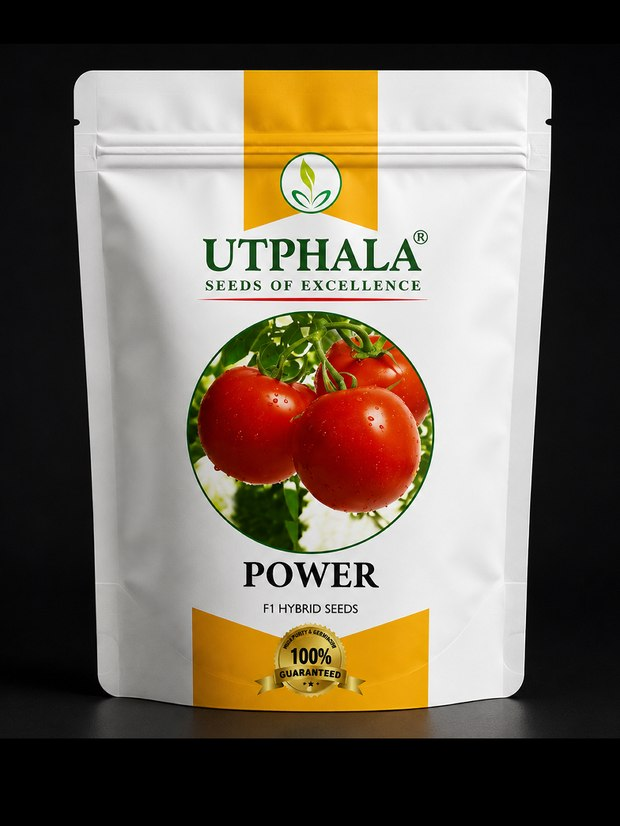
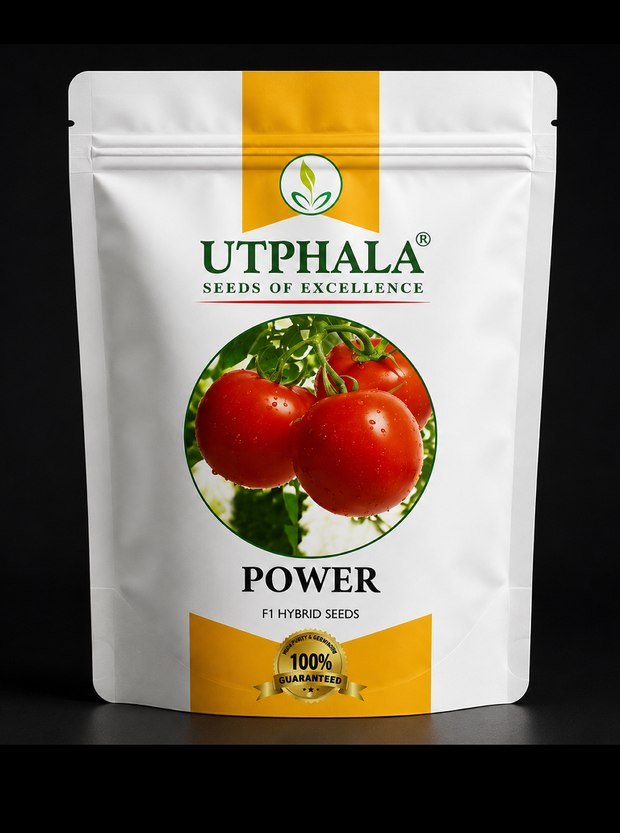
Equalise the pouch widths across the packaging row
The client spotted that TRUPTI and 1212 looked wider, and they were:
after scaling every pouch to the same height, widths came out 637 to
709px — TRUPTI +4.3% and 1212 +3.3% against the mean, KAVERI -6.3%, so
11.3% between widest and narrowest. My earlier "about 5%" understated it
by describing deviation from the mean rather than the visible spread.

Width and height are now normalised independently, so all four pouches
land on the same footprint. Since these are separate renders of one
physical pouch, correcting them is truer to the product than preserving
each render's own aspect. The correction is small: +6.7% horizontal on
KAVERI, -4.1% on TRUPTI, under 1.5% on the other two.

Verified on the finished tiles by re-detecting each pouch: 487-488px
wide, 643-644px tall, baselines within 1px.

diff --git a/utphala.com/index.html b/utphala.com/index.html
@@ -9,7 +9,7 @@
   <link rel="preconnect" href="https://fonts.googleapis.com">
   <link rel="preconnect" href="https://fonts.gstatic.com" crossorigin>
   <link href="https://fonts.googleapis.com/css2?family=Poppins:wght@400;500;600;700&family=Nunito:wght@400;600;700&display=swap" rel="stylesheet">
-  <link rel="stylesheet" href="site.css?v=20260808g">
+  <link rel="stylesheet" href="site.css?v=20260808h">
 </head>
 <body>
 
@@ -172,16 +172,16 @@
       <h2 class="section-title">40+ Hybrids Across 11 Crop Categories</h2>
       <div class="pouch-row">
         <a class="pouch reveal" style="--i:0" href="products.html?product=chilli-1212">
-          <img src="images/pouches/pouch-1212.jpg?v=20260808g" alt="Utphala 1212 F1 chilli seed pouch" loading="lazy">
+          <img src="images/pouches/pouch-1212.jpg?v=20260808h" alt="Utphala 1212 F1 chilli seed pouch" loading="lazy">
         </a>
         <a class="pouch reveal" style="--i:1" href="products.html?product=tomato-saaish">
-          <img src="images/pouches/pouch-power.jpg?v=20260808g" alt="Utphala POWER F1 tomato seed pouch" loading="lazy">
+          <img src="images/pouches/pouch-power.jpg?v=20260808h" alt="Utphala POWER F1 tomato seed pouch" loading="lazy">
         </a>
         <a class="pouch reveal" style="--i:2" href="products.html?product=watermelon-trupti">
-          <img src="images/pouches/pouch-trupti.jpg?v=20260808g" alt="Utphala TRUPTI F1 watermelon seed pouch" loading="lazy">
+          <img src="images/pouches/pouch-trupti.jpg?v=20260808h" alt="Utphala TRUPTI F1 watermelon seed pouch" loading="lazy">
         </a>
         <a class="pouch reveal" style="--i:3" href="products.html?product=cucumber-kaveri">
-          <img src="images/pouches/pouch-kaveri.jpg?v=20260808g" alt="Utphala KAVERI F1 cucumber seed pouch" loading="lazy">
+          <img src="images/pouches/pouch-kaveri.jpg?v=20260808h" alt="Utphala KAVERI F1 cucumber seed pouch" loading="lazy">
         </a>
       </div>
       <a href="products.html" class="btn btn-yellow">Explore Our Products</a>
@@ -281,6 +281,6 @@
     <svg viewBox="0 0 32 32"><path d="M16 .5C7.4.5.5 7.4.5 16c0 2.7.7 5.4 2 7.7L.5 31.5l8-2.1c2.3 1.2 4.8 1.9 7.5 1.9 8.6 0 15.5-6.9 15.5-15.5S24.6.5 16 .5zm0 28.2c-2.4 0-4.7-.6-6.7-1.8l-.5-.3-4.7 1.2 1.3-4.6-.3-.5c-1.3-2-2-4.4-2-6.8C3.1 8.9 8.9 3.1 16 3.1S28.9 8.9 28.9 16 23.1 28.7 16 28.7zm7.1-9.6c-.4-.2-2.3-1.1-2.6-1.3-.4-.1-.6-.2-.9.2-.3.4-1 1.3-1.3 1.5-.2.3-.5.3-.9.1-.4-.2-1.6-.6-3.1-1.9-1.1-1-1.9-2.3-2.1-2.6-.2-.4 0-.6.2-.8.2-.2.4-.5.6-.7.2-.2.3-.4.4-.7.1-.3.1-.5 0-.7-.1-.2-.9-2.1-1.2-2.9-.3-.8-.6-.7-.9-.7h-.8c-.3 0-.7.1-1.1.5-.4.4-1.4 1.4-1.4 3.4s1.5 3.9 1.7 4.2c.2.3 2.9 4.5 7.1 6.3 1 .4 1.8.7 2.4.9 1 .3 1.9.3 2.6.2.8-.1 2.3-1 2.7-1.9.3-.9.3-1.7.2-1.9-.1-.2-.4-.3-.8-.5z"/></svg>
   </a>
 
-  <script src="site.js?v=20260808g"></script>
+  <script src="site.js?v=20260808h"></script>
 </body>
 </html>

diff --git a/utphala.com/gallery.html b/utphala.com/gallery.html
@@ -9,7 +9,7 @@
   <link rel="preconnect" href="https://fonts.googleapis.com">
   <link rel="preconnect" href="https://fonts.gstatic.com" crossorigin>
   <link href="https://fonts.googleapis.com/css2?family=Poppins:wght@400;500;600;700&family=Nunito:wght@400;600;700&display=swap" rel="stylesheet">
-  <link rel="stylesheet" href="site.css?v=20260808f">
+  <link rel="stylesheet" href="site.css?v=20260808h">
 </head>
 <body>
 
@@ -142,7 +142,7 @@
     <svg viewBox="0 0 32 32"><path d="M16 .5C7.4.5.5 7.4.5 16c0 2.7.7 5.4 2 7.7L.5 31.5l8-2.1c2.3 1.2 4.8 1.9 7.5 1.9 8.6 0 15.5-6.9 15.5-15.5S24.6.5 16 .5zm0 28.2c-2.4 0-4.7-.6-6.7-1.8l-.5-.3-4.7 1.2 1.3-4.6-.3-.5c-1.3-2-2-4.4-2-6.8C3.1 8.9 8.9 3.1 16 3.1S28.9 8.9 28.9 16 23.1 28.7 16 28.7zm7.1-9.6c-.4-.2-2.3-1.1-2.6-1.3-.4-.1-.6-.2-.9.2-.3.4-1 1.3-1.3 1.5-.2.3-.5.3-.9.1-.4-.2-1.6-.6-3.1-1.9-1.1-1-1.9-2.3-2.1-2.6-.2-.4 0-.6.2-.8.2-.2.4-.5.6-.7.2-.2.3-.4.4-.7.1-.3.1-.5 0-.7-.1-.2-.9-2.1-1.2-2.9-.3-.8-.6-.7-.9-.7h-.8c-.3 0-.7.1-1.1.5-.4.4-1.4 1.4-1.4 3.4s1.5 3.9 1.7 4.2c.2.3 2.9 4.5 7.1 6.3 1 .4 1.8.7 2.4.9 1 .3 1.9.3 2.6.2.8-.1 2.3-1 2.7-1.9.3-.9.3-1.7.2-1.9-.1-.2-.4-.3-.8-.5z"/></svg>
   </a>
 
-  <script src="product-data.js?v=20260808f"></script>
-  <script src="site.js?v=20260808f"></script>
+  <script src="product-data.js?v=20260808h"></script>
+  <script src="site.js?v=20260808h"></script>
 </body>
 </html>

diff --git a/utphala.com/products.html b/utphala.com/products.html
@@ -9,7 +9,7 @@
   <link rel="preconnect" href="https://fonts.googleapis.com">
   <link rel="preconnect" href="https://fonts.gstatic.com" crossorigin>
   <link href="https://fonts.googleapis.com/css2?family=Poppins:wght@400;500;600;700&family=Nunito:wght@400;600;700&display=swap" rel="stylesheet">
-  <link rel="stylesheet" href="site.css?v=20260808f">
+  <link rel="stylesheet" href="site.css?v=20260808h">
 </head>
 <body>
 
@@ -394,7 +394,7 @@
     <svg viewBox="0 0 32 32"><path d="M16 .5C7.4.5.5 7.4.5 16c0 2.7.7 5.4 2 7.7L.5 31.5l8-2.1c2.3 1.2 4.8 1.9 7.5 1.9 8.6 0 15.5-6.9 15.5-15.5S24.6.5 16 .5zm0 28.2c-2.4 0-4.7-.6-6.7-1.8l-.5-.3-4.7 1.2 1.3-4.6-.3-.5c-1.3-2-2-4.4-2-6.8C3.1 8.9 8.9 3.1 16 3.1S28.9 8.9 28.9 16 23.1 28.7 16 28.7zm7.1-9.6c-.4-.2-2.3-1.1-2.6-1.3-.4-.1-.6-.2-.9.2-.3.4-1 1.3-1.3 1.5-.2.3-.5.3-.9.1-.4-.2-1.6-.6-3.1-1.9-1.1-1-1.9-2.3-2.1-2.6-.2-.4 0-.6.2-.8.2-.2.4-.5.6-.7.2-.2.3-.4.4-.7.1-.3.1-.5 0-.7-.1-.2-.9-2.1-1.2-2.9-.3-.8-.6-.7-.9-.7h-.8c-.3 0-.7.1-1.1.5-.4.4-1.4 1.4-1.4 3.4s1.5 3.9 1.7 4.2c.2.3 2.9 4.5 7.1 6.3 1 .4 1.8.7 2.4.9 1 .3 1.9.3 2.6.2.8-.1 2.3-1 2.7-1.9.3-.9.3-1.7.2-1.9-.1-.2-.4-.3-.8-.5z"/></svg>
   </a>
 
-  <script src="product-data.js?v=20260808f"></script>
-  <script src="site.js?v=20260808f"></script>
+  <script src="product-data.js?v=20260808h"></script>
+  <script src="site.js?v=20260808h"></script>
 </body>
 </html>

diff --git a/utphala.com/about.html b/utphala.com/about.html
@@ -9,7 +9,7 @@
   <link rel="preconnect" href="https://fonts.googleapis.com">
   <link rel="preconnect" href="https://fonts.gstatic.com" crossorigin>
   <link href="https://fonts.googleapis.com/css2?family=Poppins:wght@400;500;600;700&family=Nunito:wght@400;600;700&display=swap" rel="stylesheet">
-  <link rel="stylesheet" href="site.css?v=20260808f">
+  <link rel="stylesheet" href="site.css?v=20260808h">
 </head>
 <body>
 
@@ -239,6 +239,6 @@
     <svg viewBox="0 0 32 32"><path d="M16 .5C7.4.5.5 7.4.5 16c0 2.7.7 5.4 2 7.7L.5 31.5l8-2.1c2.3 1.2 4.8 1.9 7.5 1.9 8.6 0 15.5-6.9 15.5-15.5S24.6.5 16 .5zm0 28.2c-2.4 0-4.7-.6-6.7-1.8l-.5-.3-4.7 1.2 1.3-4.6-.3-.5c-1.3-2-2-4.4-2-6.8C3.1 8.9 8.9 3.1 16 3.1S28.9 8.9 28.9 16 23.1 28.7 16 28.7zm7.1-9.6c-.4-.2-2.3-1.1-2.6-1.3-.4-.1-.6-.2-.9.2-.3.4-1 1.3-1.3 1.5-.2.3-.5.3-.9.1-.4-.2-1.6-.6-3.1-1.9-1.1-1-1.9-2.3-2.1-2.6-.2-.4 0-.6.2-.8.2-.2.4-.5.6-.7.2-.2.3-.4.4-.7.1-.3.1-.5 0-.7-.1-.2-.9-2.1-1.2-2.9-.3-.8-.6-.7-.9-.7h-.8c-.3 0-.7.1-1.1.5-.4.4-1.4 1.4-1.4 3.4s1.5 3.9 1.7 4.2c.2.3 2.9 4.5 7.1 6.3 1 .4 1.8.7 2.4.9 1 .3 1.9.3 2.6.2.8-.1 2.3-1 2.7-1.9.3-.9.3-1.7.2-1.9-.1-.2-.4-.3-.8-.5z"/></svg>
   </a>
 
-  <script src="site.js?v=20260808f"></script>
+  <script src="site.js?v=20260808h"></script>
 </body>
 </html>

diff --git a/utphala.com/contact.html b/utphala.com/contact.html
@@ -9,7 +9,7 @@
   <link rel="preconnect" href="https://fonts.googleapis.com">
   <link rel="preconnect" href="https://fonts.gstatic.com" crossorigin>
   <link href="https://fonts.googleapis.com/css2?family=Poppins:wght@400;500;600;700&family=Nunito:wght@400;600;700&display=swap" rel="stylesheet">
-  <link rel="stylesheet" href="site.css?v=20260808f">
+  <link rel="stylesheet" href="site.css?v=20260808h">
 </head>
 <body>
 
@@ -233,6 +233,6 @@
     <svg viewBox="0 0 32 32"><path d="M16 .5C7.4.5.5 7.4.5 16c0 2.7.7 5.4 2 7.7L.5 31.5l8-2.1c2.3 1.2 4.8 1.9 7.5 1.9 8.6 0 15.5-6.9 15.5-15.5S24.6.5 16 .5zm0 28.2c-2.4 0-4.7-.6-6.7-1.8l-.5-.3-4.7 1.2 1.3-4.6-.3-.5c-1.3-2-2-4.4-2-6.8C3.1 8.9 8.9 3.1 16 3.1S28.9 8.9 28.9 16 23.1 28.7 16 28.7zm7.1-9.6c-.4-.2-2.3-1.1-2.6-1.3-.4-.1-.6-.2-.9.2-.3.4-1 1.3-1.3 1.5-.2.3-.5.3-.9.1-.4-.2-1.6-.6-3.1-1.9-1.1-1-1.9-2.3-2.1-2.6-.2-.4 0-.6.2-.8.2-.2.4-.5.6-.7.2-.2.3-.4.4-.7.1-.3.1-.5 0-.7-.1-.2-.9-2.1-1.2-2.9-.3-.8-.6-.7-.9-.7h-.8c-.3 0-.7.1-1.1.5-.4.4-1.4 1.4-1.4 3.4s1.5 3.9 1.7 4.2c.2.3 2.9 4.5 7.1 6.3 1 .4 1.8.7 2.4.9 1 .3 1.9.3 2.6.2.8-.1 2.3-1 2.7-1.9.3-.9.3-1.7.2-1.9-.1-.2-.4-.3-.8-.5z"/></svg>
   </a>
 
-  <script src="site.js?v=20260808f"></script>
+  <script src="site.js?v=20260808h"></script>
 </body>
 </html>
